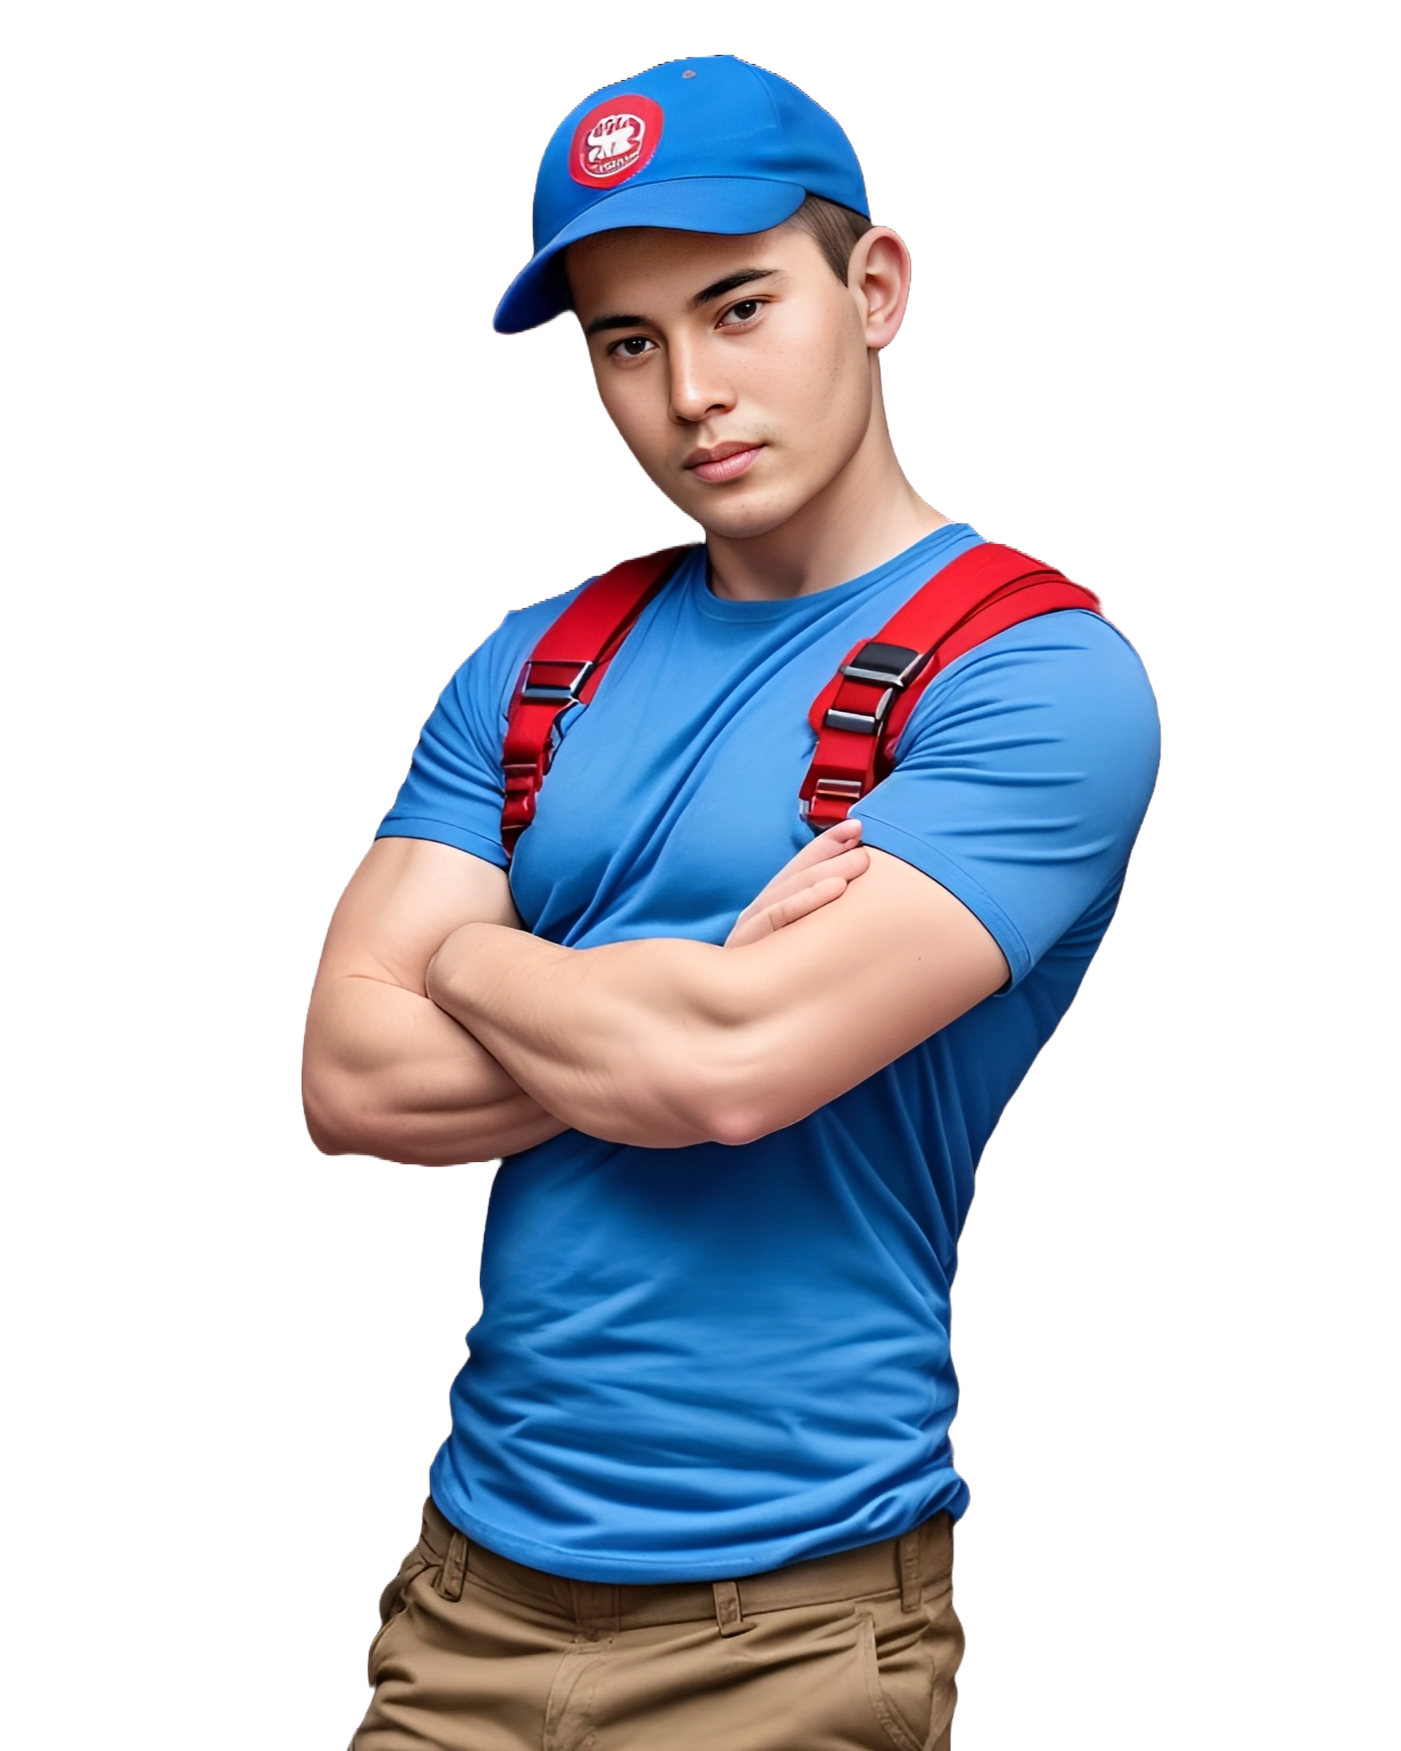
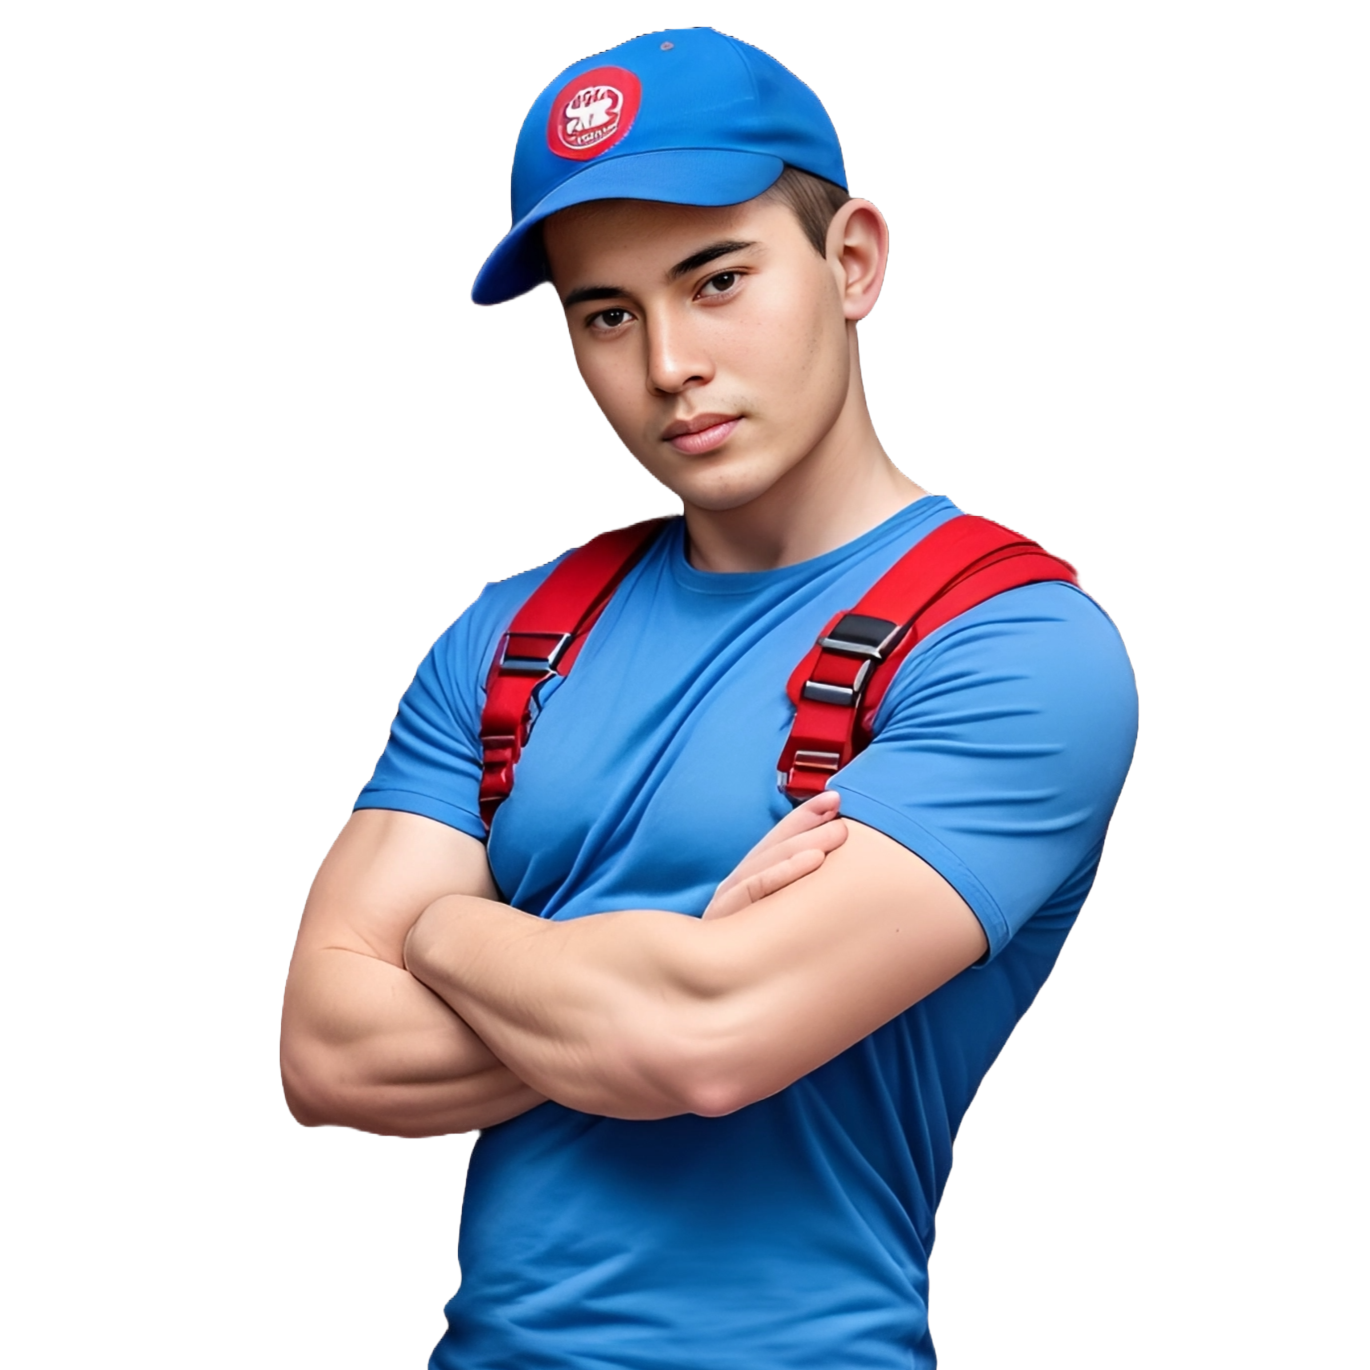
Added some reusable containers for reusability and ease.

diff --git a/next-framer/src/components/Hero.jsx b/next-framer/src/components/Hero.jsx
@@ -15,8 +15,10 @@ import Image from "next/image";
 
 const Hero = () => {
   return (
-    <div className="min-h-[300vh] bg-gray-400">
-      {/* <Image src="/assets/hero.png" fill objectFit="cover" /> */}
+    <div className="min-h-screen flex justify-center items-end bg-gradient-to-br from-zinc-400 to-slate-200">
+      <div className="relative w-full aspect-square">
+        <Image src="/assets/hero.png" quality={100} fill objectFit="contain" />
+      </div>
     </div>
   );
 };

diff --git a/next-framer/src/components/containers/GridContainer.jsx b/next-framer/src/components/containers/GridContainer.jsx
@@ -1,0 +1,11 @@
+const GridContainer = ({ className = "", children }) => {
+  return (
+    <div
+      className={`mx-4 grid grid-cols-4 gap-8 lg:mx-0 lg:grid-cols-12 lg:gap-8  ${className}`}
+    >
+      {children}
+    </div>
+  );
+};
+
+export default GridContainer;

diff --git a/next-framer/src/components/containers/SectionContainer.jsx b/next-framer/src/components/containers/SectionContainer.jsx
@@ -1,0 +1,14 @@
+const SectionContainer = ({
+  id = "",
+  className = "",
+  style = {},
+  children,
+}) => {
+  return (
+    <section id={id} className={className} style={style}>
+      {children}
+    </section>
+  );
+};
+
+export default SectionContainer;

diff --git a/next-framer/src/components/containers/Container.jsx b/next-framer/src/components/containers/Container.jsx
@@ -1,0 +1,7 @@
+import cn from "clsx";
+
+const Container = ({ className = "", children }) => {
+  return <div className={cn("container mx-auto", className)}>{children}</div>;
+};
+
+export default Container;
